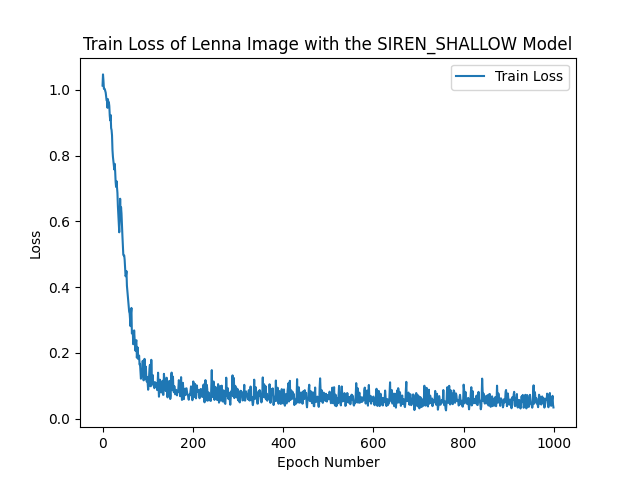
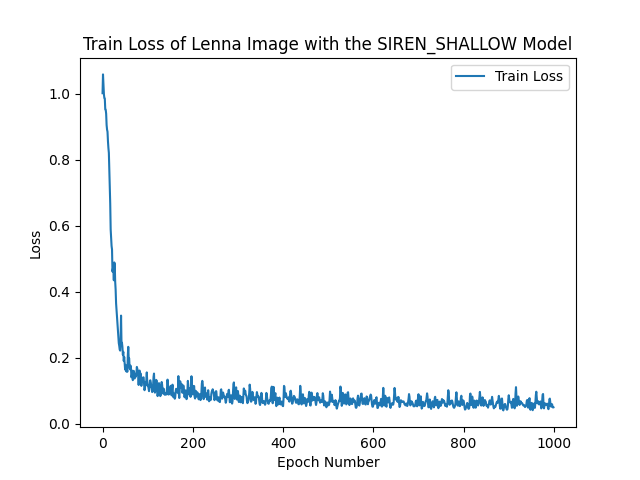
All tests conducted

diff --git a/common.py b/common.py
@@ -56,7 +56,8 @@ def generate_grid_siren(resolution=256):
     xy = np.stack([x, y], axis=-1)
     return xy.reshape(-1, 2), x.shape
 
-# Training function for both networks
+
+# Training function for all networks
 def train(image, model, epochs=1000, lr=1e-3, img_name="", model_name=""):
     x, y, im_mean, im_std = create_coordinate_grid(image)
 
@@ -81,24 +82,21 @@ def train(image, model, epochs=1000, lr=1e-3, img_name="", model_name=""):
     return model
 
 
-# Inferring function for both networks
-def infer_MLP(model, image):
+# Inferring function for all networks
+def infer(model, image):
     x, y, im_mean, im_std = create_coordinate_grid(image)
+    x = x.to(device)
+    y = y.to(device)
+    im_mean = im_mean.to(device)
+    im_std = im_std.to(device)
+    model.to(device)
 
     with torch.no_grad():
-        output = (model.net(x) * im_std[None] + im_mean[None]).reshape(image.shape).numpy().clip(0, 1)
+        output = torch.Tensor.cpu((model.net(x) * im_std[None] + im_mean[None]).reshape(image.shape))
+        output = output.numpy().clip(0, 1)
 
     return output
 
-def infer_SIREN(model):
-    coords, shape = generate_grid_siren()
-    coords_tensor = torch.tensor(coords, dtype=torch.float32)
-
-    # Forward pass
-    output = model(coords_tensor).detach().numpy()
-    output = output.reshape(*shape, 3)
-
-    return output
 
 def resize_image(image, target_size):
     return cv2.resize(image, target_size, interpolation=cv2.INTER_AREA)
@@ -135,13 +133,7 @@ def reconstruct_img(file_path, model_name, num_of_epochs):
 
     if model_name.upper() == "MLP":
         model = MLP().to(device)
-        print("")
-        print("Working on: \"" + image_name + "\" image")
-        model = train(image, model, epochs=num_of_epochs, lr=1e-3, img_name=image_name, model_name=model_name.upper())
-        reconstructed_image = infer_MLP(model, image)
-        reconstructed_image_path = "".join(('./Results/', model_name, '/', image_name, '.png'))
-        save_image(reconstructed_image, reconstructed_image_path)
-
+        model_chosen = 1
     elif model_name.upper() == "SIREN":
         model = SIREN().to(device)
         model_chosen = 1
@@ -150,31 +142,22 @@ def reconstruct_img(file_path, model_name, num_of_epochs):
         model_chosen = 1
     elif model_name.upper() == "SIREN_NARROW":
         model = SIREN(hidden_dim=128).to(device)
-        print("")
-        print("Working on: \"" + image_name + "\" image")
-        model = train(image, model, epochs=num_of_epochs, lr=1e-3, img_name=image_name, model_name=model_name.upper())
-        reconstructed_image = infer_SIREN(model, image)
-
-        reconstructed_image_path = "".join(('./Results/', model_name, '/', image_name, '.png'))
-        save_image(reconstructed_image, reconstructed_image_path)
-
+        model_chosen = 1
     elif model_name.upper() == "SIREN_WIDER":
-        model = SIREN(hidden_dim=1024).to(device)
+        model = SIREN(hidden_dim=526).to(device)
         model_chosen = 1
     elif model_name.upper() == "SIREN_DEEPER":
-        model = SIREN(num_layers=20).to(device)
+        model = SIREN(num_layers=8).to(device)
         model_chosen = 1
     elif model_name.upper() == "SIREN_SHALLOW":
-        model = SIREN(num_layers=5).to(device)
+        model = SIREN(num_layers=3).to(device)
         model_chosen = 1
     elif model_name.upper() == "MLP_SINE":
         model = MLP_SINE().to(device)
-        print("")
-        print("Working on: \"" + image_name + "\" image")
-        model = train(image, model, epochs=num_of_epochs, lr=1e-3, img_name=image_name, model_name=model_name.upper())
-        reconstructed_image = infer_MLP(model, image)
-        reconstructed_image_path = "".join(('./Results/', model_name, '/', image_name, '.png'))
-        save_image(reconstructed_image, reconstructed_image_path)
+        model_chosen = 1
+    elif model_name.upper() == "MLP_SINE2":
+        model = MLP_SINE2().to(device)
+        model_chosen = 1
     else:
         model_chosen = 0
         print("Invalid model name")
@@ -184,7 +167,7 @@ def reconstruct_img(file_path, model_name, num_of_epochs):
         print("")
         print("Working on: \"" + image_name + "\" image")
         model = train(image, model, epochs=num_of_epochs, lr=1e-3, img_name=image_name, model_name=model_name.upper())
-        reconstructed_image = infer_MLP(model, image)
+        reconstructed_image = infer(model, image)
         reconstructed_image_path = "".join(('./Results/', model_name, '/', image_name, '.png'))
         save_image(reconstructed_image, reconstructed_image_path)
 
@@ -192,7 +175,6 @@ def reconstruct_img(file_path, model_name, num_of_epochs):
 def iterate_reconstruct_folder(folder_path, model_type, num_of_epochs):
     for filename in os.listdir(folder_path):
         file_path = os.path.join(folder_path, filename)
-        img_name = file_path.split(".")[0]
         file_suffix = file_path.split(".")[-1]
         if os.path.isfile(file_path):
             if file_suffix.upper() == "JPG":

diff --git a/models.py b/models.py
@@ -33,8 +33,9 @@ class Sine(nn.Module):
     def forward(self, x):
         return torch.sin(self.w0 * x)
 
+
 class SIREN(nn.Module):
-    def __init__(self, input_dim=2, hidden_dim=256, output_dim=3, num_layers=10, w0=30.0):
+    def __init__(self, input_dim=2, hidden_dim=256, output_dim=3, num_layers=5, w0=30.0):
         super(SIREN, self).__init__()
         self.w0 = w0
 
@@ -55,7 +56,8 @@ class SIREN(nn.Module):
 
             for layer in self.net:
                 if isinstance(layer, nn.Linear):
-                    nn.init.uniform_(layer.weight, -np.sqrt(6 / layer.in_features) / self.w0, np.sqrt(6 / layer.in_features) / self.w0)
+                    nn.init.uniform_(layer.weight, -np.sqrt(6 / layer.in_features) / self.w0,
+                                     np.sqrt(6 / layer.in_features) / self.w0)
                     nn.init.zeros_(layer.bias)
 
     def forward(self, x):
@@ -64,7 +66,7 @@ class SIREN(nn.Module):
 
 # Neural network for SIREN representation with alternating Sine and ReLU layers
 class SIREN_HYBRID(SIREN):
-    def __init__(self, input_dim=2, hidden_dim=256, output_dim=3, num_layers=10, w0=30.0):
+    def __init__(self, input_dim=2, hidden_dim=256, output_dim=3, num_layers=5, w0=30.0):
         super(SIREN, self).__init__()
         self.w0 = w0
 
@@ -81,13 +83,28 @@ class SIREN_HYBRID(SIREN):
 
 # Neural network for MLP implicit representation with one Sine Layer
 class MLP_SINE(MLP):
-    def __init__(self, input_dim=2, hidden_dim=526, output_dim=3, num_layers=10, w0=30):
+    def __init__(self, input_dim=2, hidden_dim=256, output_dim=3, num_layers=10, w0=30):
         super(MLP_SINE, self).__init__()
         layers = []
 
         for i in range(num_layers):
             layers.append(nn.Linear(input_dim if i == 0 else hidden_dim, hidden_dim))
             layers.append(Sine(w0) if i == 0 else nn.ReLU(inplace=True))
+
+        layers.append(nn.Linear(hidden_dim, output_dim))
+
+        self.net = nn.Sequential(*layers)
+
+
+# Neural network for MLP implicit representation with one Sine Layer
+class MLP_SINE2(MLP):
+    def __init__(self, input_dim=2, hidden_dim=256, output_dim=3, num_layers=5, w0=30):
+        super(MLP_SINE2, self).__init__()
+        layers = []
+
+        for i in range(num_layers):
+            layers.append(nn.Linear(input_dim if i == 0 else hidden_dim, hidden_dim))
+            layers.append(Sine(w0) if i < 2 else nn.ReLU(inplace=True))
 
         layers.append(nn.Linear(hidden_dim, output_dim))
 

diff --git a/test5.py b/test5.py
@@ -15,12 +15,12 @@ device = torch.device('cuda' if torch.cuda.is_available() else 'cpu')
 
 if __name__ == "__main__":
     folder_path = './Images/'
-    num_of_epochs = 2000
+    num_of_epochs = 1000
 
-    print("Reconstructing Images via SIREN with double epochs number:")
-    test_reconstruct_folder("SIREN", folder_path, num_of_epochs=num_of_epochs)
+    print("Reconstructing Images via MLP_SINE")
+    test_reconstruct_folder("MLP_SINE", folder_path, num_of_epochs=num_of_epochs)
     print("")
 
-    print("Comparing Reconstructions of SIREN with double epochs number:")
-    test_compare_folder('./Images/', './Results/SIREN_Double/')
+    print("Comparing Reconstructions of MLP_SINE:")
+    test_compare_folder(folder_path, './Results/MLP_SINE/')
     print("")

diff --git a/test6.py b/test6.py
@@ -17,10 +17,10 @@ if __name__ == "__main__":
     folder_path = './Images/'
     num_of_epochs = 1000
 
-    print("Reconstructing Images via MLP_SINE")
-    test_reconstruct_folder("MLP_SINE", folder_path, num_of_epochs=num_of_epochs)
+    print("Reconstructing Images via MLP_SINE2")
+    test_reconstruct_folder("MLP_SINE2", folder_path, num_of_epochs=num_of_epochs)
     print("")
 
-    print("Comparing Reconstructions of MLP_SINE:")
-    test_compare_folder(folder_path, './Results/MLP_SINE/')
+    print("Comparing Reconstructions of MLP_SINE2:")
+    test_compare_folder(folder_path, './Results/MLP_SINE2/')
     print("")

diff --git a/main.py b/main.py
@@ -12,7 +12,7 @@ from common import *
 gc.collect()
 
 # Set device
-device = torch.device('cuda' if torch.cuda.is_available() else 'cpu')
+device = torch.device('cpu')
 
 # Main
 if __name__ == "__main__":
@@ -35,7 +35,7 @@ if __name__ == "__main__":
     if model_chosen:
         model = train(image, model, epochs=1000, lr=1e-3)
 
-        reconstructed_image = infer_MLP(model, image)
+        reconstructed_image = infer(model, image)
         reconstructed_image_path = "".join(('./Results/', image_name, '_Reconstructed_', model_name.upper(), '.png'))
         save_image(reconstructed_image, reconstructed_image_path)
 

diff --git a/test4.py b/test4.py
@@ -26,9 +26,9 @@ if __name__ == "__main__":
     print("")
 
     print("Reconstructing Images via SIREN_SHALLOW:")
- #   test_reconstruct_folder("SIREN_SHALLOW", folder_path, num_of_epochs=num_of_epochs)
+    test_reconstruct_folder("SIREN_SHALLOW", folder_path, num_of_epochs=num_of_epochs)
     print("")
 
     print("Comparing Reconstructions of SIREN_SHALLOW:")
- #   test_compare_folder(folder_path, './Results/SIREN_SHALLOW/')
+    test_compare_folder(folder_path, './Results/SIREN_SHALLOW/')
     print("")
